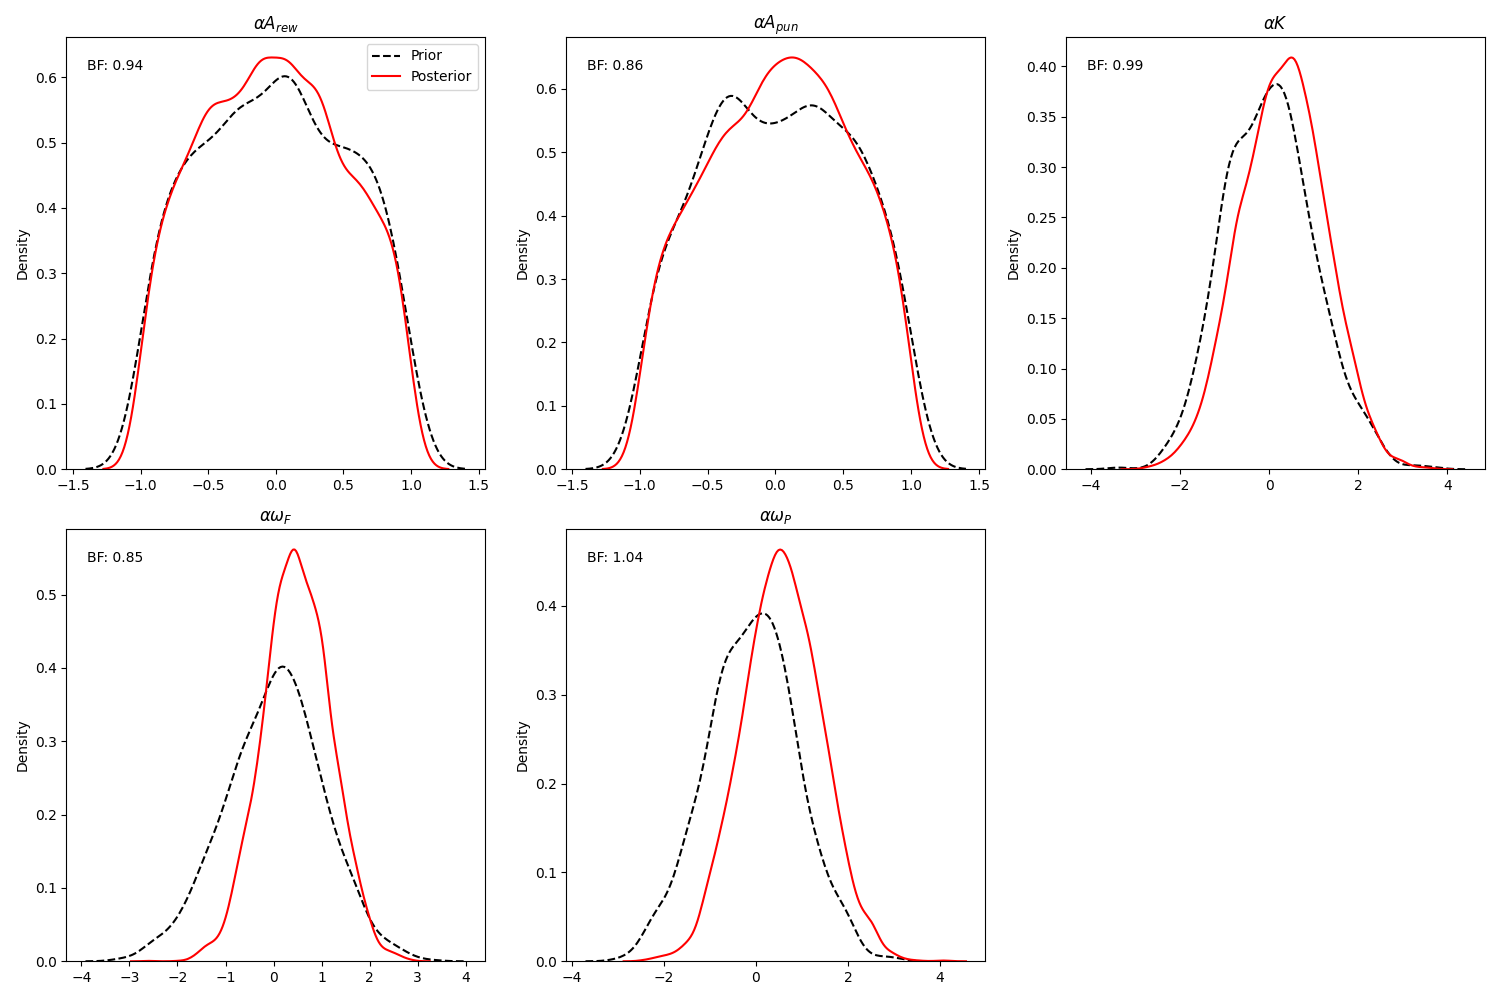
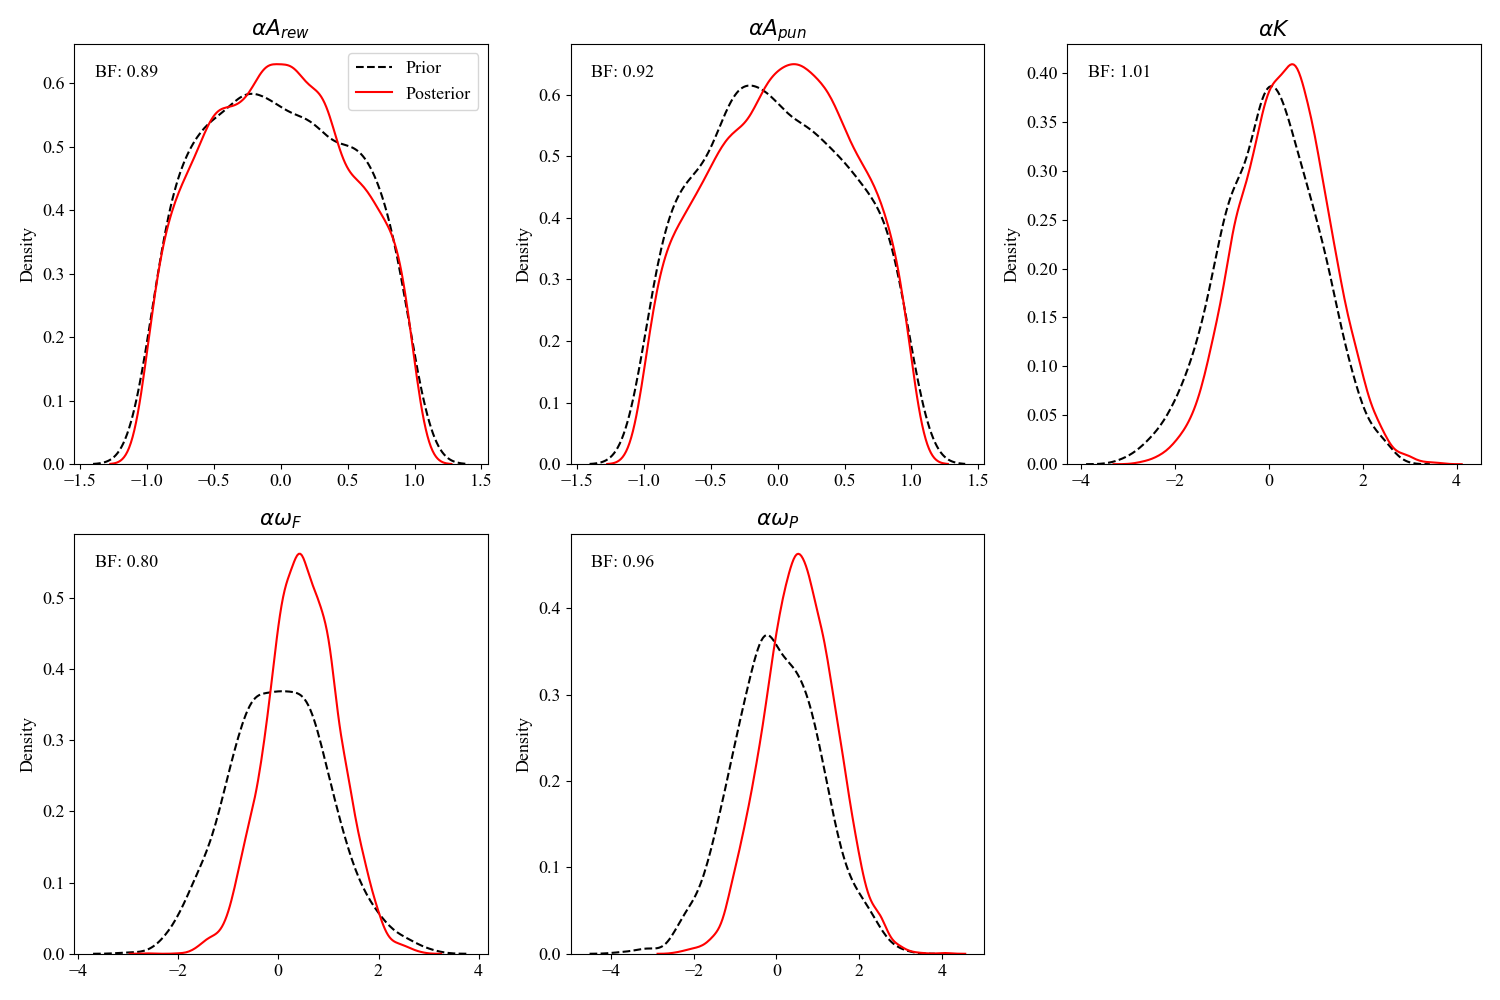
updated font to times

diff --git a/src/comparison/plot_comparison.py b/src/comparison/plot_comparison.py
@@ -4,12 +4,21 @@ import numpy as np
 import pandas as pd
 import seaborn as sns
 from scipy.stats import truncnorm, gamma, binom, gaussian_kde
+from matplotlib.font_manager import FontManager
 
 def chance_level(n, alpha = 0.001, p = 0.5):
     k = binom.ppf(1-alpha, n, p)
     chance_level = k/n
     
     return chance_level
+
+def set_font():
+    available_fonts = set(f.name for f in FontManager().ttflist)
+    if 'Times New Roman' in available_fonts:
+        # use times new roman if available
+        plt.rcParams['font.family'] = 'Times New Roman'
+        # set font size to 13
+        plt.rcParams.update({'font.size': 13})
 
 def sample_truncated_normal(mean, sd, lower, upper, size=1000):
     a, b = (lower - mean) / sd, (upper - mean) / sd
@@ -148,6 +157,9 @@ def main():
 
     # load outcome data
     outcome_comparison_data = pd.read_csv(data_path / "outcome_params.csv")
+    
+    # set font
+    set_font()
 
     # plot
     savage_dickey_plot_orl(orl_comparison_data, save_path=path.parents[2] / "src" / "comparison" / "plots" / "alpha_comparison_orl.png")
